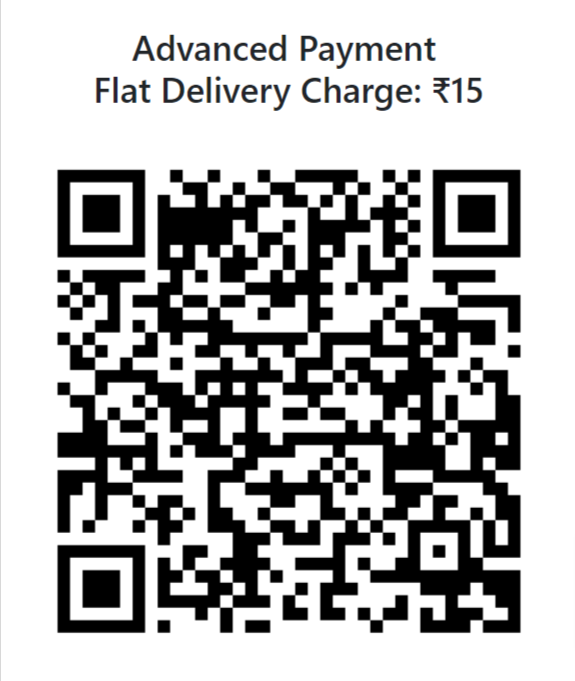
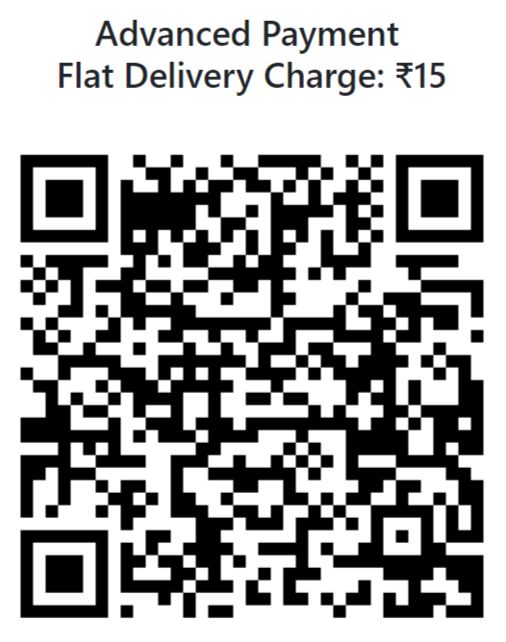
final publish

diff --git a/place-order.html b/place-order.html
@@ -100,7 +100,7 @@
                         <p class="text-center">Dear <span id="userName">UserName</span></p>
                         <p class="text-center">Your order (Invoice #<span id="invoiceNumber"></span>) has been
                             placed successfully!</p>
-                        <p class="text-center">Delivery Fee Status: <span id="deliveyPaidstatus"></span></p> <br>
+                        <!-- <p class="text-center">Delivery Fee Status: <span id="deliveyPaidstatus"></span></p> <br> -->
 
 
 
@@ -292,7 +292,7 @@
             <!-- QR Code and Instructions Section -->
             <div class="row justify-content-center">
                 <div class="col-lg-6 text-center">
-                    <img src="img/all-workshop-price99.png" alt="QR Code" class="qr-code img-fluid border-0" />
+                    <img src="img/delivery-fee-15.png" alt="QR Code" class="qr-code img-fluid border-0" />
                 </div>
             </div>
 
@@ -360,7 +360,7 @@
                                 <h2>Our Address</h2>
                                 <p><i class="fa fa-map-marker-alt"></i>Basavanagudi Circle, Mysore, India</p>
                                 <p><i class="fa fa-phone-alt"></i>+919350125817</p>
-                                <p><i class="fa fa-envelope"></i>dktiffin@gmail.com</p>
+                                <p><i class="fa fa-envelope"></i>rkdktiffin@gmail.com</p>
                                 <div class="footer-social">
                                     <a href="#"><i class="fab fa-twitter"></i></a>
                                     <a href="#"><i class="fab fa-facebook-f"></i></a>
@@ -405,18 +405,18 @@
     </footer>
     <!-- Footer End -->
 
-    <!-- WhatsApp -->
-    <div class="whatsapp-icon">
 
-        <a href="https://api.whatsapp.com/send?phone=+919350125817&text=Hi%2C%20I%20want%20to%20order%20food.%20Can%20you%20help%20me%3F"
+    <div class="whatsapp-icon mb-4">
+
+        <a href="https://api.whatsapp.com/send?phone=+919350125817&text=Hi%2C%20I%20want%20to%20order%20Tiffin.%20Can%20you%20help%20me%3F"
             target="_blank">
             <img src="img/wa.png" alt="WhatsApp Icon">
         </a>
     </div>
-    <!-- WhatsApp End -->
 
-    <!-- Back to Top -->
     <a href="#" class="back-to-top mb-5"><i class="fa fa-chevron-up"></i></a>
+
+    <a href="place-order.html" id="orderNowBtn" class="btn custom-btn  mt-5">Order Now</a>
 
 
 

diff --git a/js/menu.js b/js/menu.js
@@ -1,19 +1,19 @@
 // Menu data
 const menuData = {
     breakfast: [
-        { name: "3 Idli with Sambhar", region: "South", price: "₹25.00", image: "img/menu/idli.jpg" },
-        { name: "2 Dosa with Sambhar", region: "South", price: "₹30.00", image: "img/menu/aloo_tikki.jpg" },
-        { name: "3 Poori with Aloo Sabzi", region: "North", price: "₹40.00", image: "img/menu/poori.jpg" }
+        { name: "Idli with Sambhar", region: "South", price: "₹8.00/piece", image: "img/menu/breakfast1-idli.jpg" },
+        { name: "Dosa with Sambhar", region: "South", price: "₹15.00/piece", image: "img/menu/breakfast2-dosa.jpg" },
+        { name: "Aloo Paratha with Butter", region: "North", price: "₹20.00/piece", image: "img/menu/breakfast3-aloo-paratha.jpg" }
     ],
     lunch: [
-        { name: "Aloo Sabzi with Poori", region: "East/South", price: "₹50.00", image: "img/menu/aloo_sabzi.jpg" },
-        { name: "Dal, Rice & 2 Chapati", region: "East", price: "₹60.00", image: "img/menu/jeera_rice.jpg" },
-        { name: "Curry Chicken with Rice ", region: "North", price: "₹80.00", image: "img/menu/chicken_korma.jpg" }
+        { name: "Rice, Chapati, Daal & Sabji", region: "East/North", price: "₹70.00/plate", image: "img/menu/lunch1.jpg" },
+        { name: "Rice, 2 Chapati, Daal & Sabji", region: "East/North", price: "₹70.00/plate", image: "img/menu/lunch2.jpg" },
+        { name: "Rice, Daal, Sabji, Puri ", region: "North/South", price: "₹80.00/plate", image: "img/menu/lunch3.jpg" }
     ],
     dinner: [
-        { name: "Idli with Sambhar", region: "South/East", price: "₹40.00", image: "img/menu/idli.jpg" },
-        { name: "Aloo Tikki with Chole", region: "West", price: "₹50.00", image: "img/menu/aloo_tikki.jpg" },
-        { name: "Poori with Aloo Sabzi", region: "North", price: "₹50.00", image: "img/menu/poori.jpg" }
+        { name: "Chapati with Sabji", region: "South/East", price: "₹15.00/chapati", image: "img/menu/dinner1.jpg" },
+        { name: "Rice, 2 Chapati, Daal & Sabji", region: "West", price: "₹60.00/plate", image: "img/menu/dinner2.jpg" },
+        { name: "Aloo Paratha with Butter", region: "North", price: "₹20.00/paratha", image: "img/menu/breakfast3-aloo-paratha.jpg" }
     ]
 };
 

diff --git a/firebase-auth/firebase.js b/firebase-auth/firebase.js
@@ -1,17 +1,12 @@
 // For Firebase JS SDK v7.20.0 and later, measurementId is optional
 const firebaseConfig = {
-    apiKey: "AIzaSyBLvhQ5Ag0kDvqCVN1ggKmx1ZgBPk_XfYI",
-    authDomain: "diwakar-tiffin-services.firebaseapp.com",
-    databaseURL: "https://diwakar-tiffin-services-default-rtdb.firebaseio.com",
-    projectId: "diwakar-tiffin-services",
-    storageBucket: "diwakar-tiffin-services.appspot.com",
-    messagingSenderId: "901872908984",
-    appId: "1:901872908984:web:5eb4319972dbb49b4e524d"
+    apiKey: "AIzaSyCmsbPM3u3_u-5NYsyFdZfE9arbd6146OY",
+    authDomain: "rkdktiffinbox.firebaseapp.com",
+    projectId: "rkdktiffinbox",
+    databaseURL: "https://rkdktiffinbox-default-rtdb.firebaseio.com/",
+    storageBucket: "rkdktiffinbox.appspot.com",
+    messagingSenderId: "478058439707",
+    appId: "1:478058439707:web:86c5af98ecf5be2a3d04be",
+    measurementId: "G-ZTBN8JQCM8"
 };
-
-// Initialize Firebase
 firebase.initializeApp(firebaseConfig);
-
-
-// git config --global user.email "krishikesh780@gmail.com"
-// git config --global user.name "Rishikesh"
